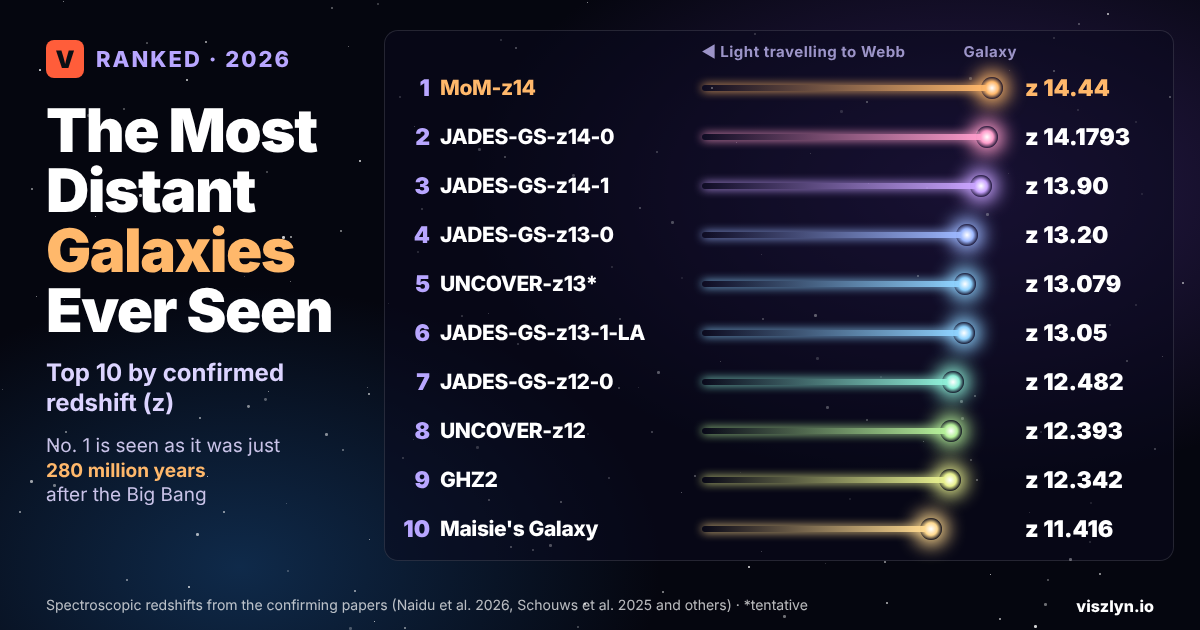
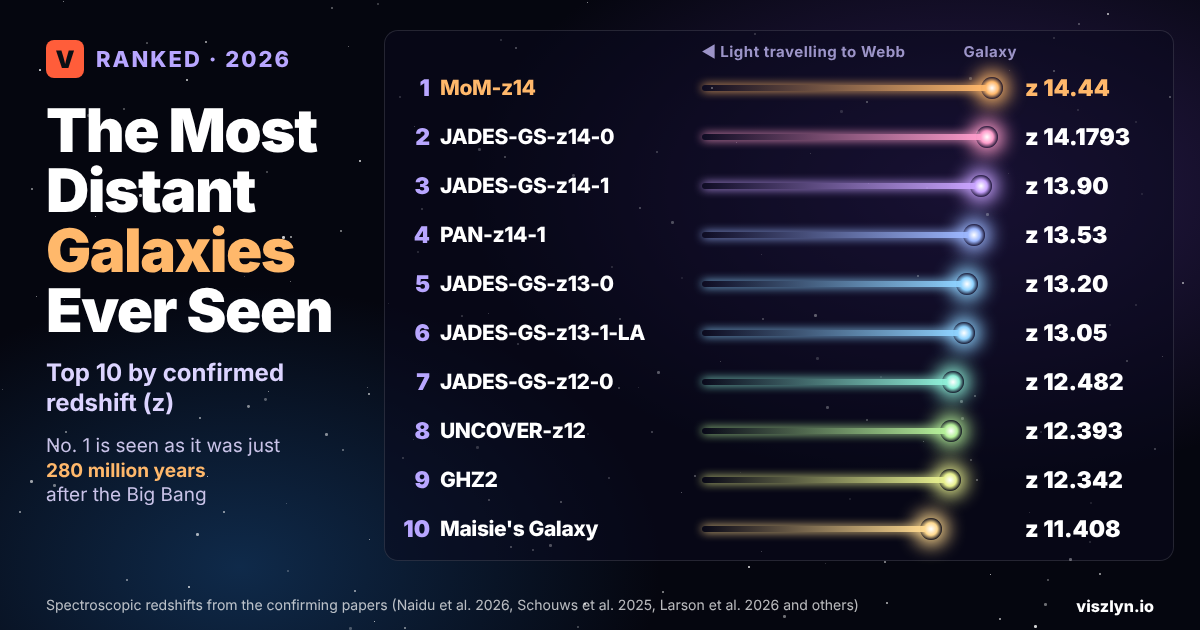
Galaxies: add PAN-z14-1, drop tentative UNCOVER-z13, Maisie's 11.408
Claude-Session: https://claude.ai/code/session_01Lx7Mnbsr2j6Zre36XCS9Kp

diff --git a/src/data/rankings/most-distant-galaxies-ever-observed-2026.ts b/src/data/rankings/most-distant-galaxies-ever-observed-2026.ts
@@ -22,7 +22,7 @@ export const mostDistantGalaxiesEverObserved2026: RankingArticle = {
   heroImage: {
     src: "/heroes/most-distant-galaxies-ever-observed-2026.png",
     ogSrc: "/heroes/most-distant-galaxies-ever-observed-2026-og.png",
-    alt: "Beams of light from the 10 most distant galaxies with confirmed redshifts: MoM-z14 (z 14.44), JADES-GS-z14-0 (14.1793), JADES-GS-z14-1 (13.90), JADES-GS-z13-0 (13.20), UNCOVER-z13 (13.079, tentative), JADES-GS-z13-1-LA (13.05), JADES-GS-z12-0 (12.482), UNCOVER-z12 (12.393), GHZ2 (12.342) and Maisie's Galaxy (11.416).",
+    alt: "Beams of light from the 10 most distant galaxies with confirmed redshifts: MoM-z14 (z 14.44), JADES-GS-z14-0 (14.1793), JADES-GS-z14-1 (13.90), JADES-GS-z13-0 (13.20), PAN-z14-1 (13.53), JADES-GS-z13-1-LA (13.05), JADES-GS-z12-0 (12.482), UNCOVER-z12 (12.393), GHZ2 (12.342) and Maisie's Galaxy (11.408).",
   },
 
   quickAnswer:
@@ -42,27 +42,27 @@ export const mostDistantGalaxiesEverObserved2026: RankingArticle = {
     { rank: 1, name: "MoM-z14", value: "14.44", raw: 14.44 },
     { rank: 2, name: "JADES-GS-z14-0", value: "14.1793", raw: 14.1793 },
     { rank: 3, name: "JADES-GS-z14-1", value: "13.90", raw: 13.9 },
-    { rank: 4, name: "JADES-GS-z13-0", value: "13.20", raw: 13.2 },
-    { rank: 5, name: "UNCOVER-z13 (tentative)", value: "13.079", raw: 13.079 },
+    { rank: 4, name: "PAN-z14-1", value: "13.53", raw: 13.53 },
+    { rank: 5, name: "JADES-GS-z13-0", value: "13.20", raw: 13.2 },
     { rank: 6, name: "JADES-GS-z13-1-LA", value: "13.05", raw: 13.05 },
     { rank: 7, name: "JADES-GS-z12-0", value: "12.482", raw: 12.482 },
     { rank: 8, name: "UNCOVER-z12", value: "12.393", raw: 12.393 },
     { rank: 9, name: "GHZ2 (GLASS-z12)", value: "12.342", raw: 12.342 },
-    { rank: 10, name: "Maisie's Galaxy", value: "11.416", raw: 11.416 },
+    { rank: 10, name: "Maisie's Galaxy", value: "11.408", raw: 11.408 },
   ],
 
   detailedEntries: [
     {
       rank: 10,
       name: "Maisie's Galaxy",
-      earnings: "z = 11.416 ± 0.005",
+      earnings: "z = 11.408 ± 0.005",
       category: "CEERS · EGS field",
       origin: "JWST NIRSpec",
       blurb:
-        "Maisie's Galaxy (catalogued as CEERS 16943) was confirmed by Arrabal Haro et al. (2023) in the CEERS survey's EGS field. The confirming paper dates its light to 392 million years after the Big Bang; the University of Texas at Austin release says 390 million years.",
+        "Maisie's Galaxy (catalogued as CEERS 16943) was confirmed by Arrabal Haro et al. (2023) in the CEERS survey's EGS field at a redshift of 11.416 ± 0.005. A deep spectroscopic follow-up by Larson et al. (2026) measured 11.408 ± 0.005, the value it is ranked by here. The confirming paper dates its light to 392 million years after the Big Bang; the University of Texas at Austin release says 390 million years.",
       standoutFact:
-        "It was publicised in the summer of 2022 as a galaxy at a redshift of about 14; spectroscopy put it at 11.416. A deep follow-up in 2026 measured 11.408 ± 0.005, consistent with the confirming value.",
-      sourceTag: "Arrabal Haro et al. 2023, Nature 621, 707–711",
+        "It was publicised in the summer of 2022 as a galaxy at a redshift of about 14; spectroscopy put it at 11.416 in 2023, refined to 11.408 in 2026.",
+      sourceTag: "Larson et al. 2026 (arXiv:2607.08749); Arrabal Haro et al. 2023, Nature 621, 707–711",
       image: {
         src: "/rankings/most-distant-galaxies-ever-observed-2026/maisies-galaxy.webp",
         width: 1200,
@@ -106,7 +106,7 @@ export const mostDistantGalaxiesEverObserved2026: RankingArticle = {
       blurb:
         "UNCOVER-z12 is the robust detection of the pair reported by Wang et al. (2023) in the UNCOVER survey of Abell 2744 (Pandora's Cluster). The UNCOVER release dates the pair's light to when the universe was about 330 million years old, a light travel time of about 13.4 billion years.",
       standoutFact:
-        "Its companion in the same paper, UNCOVER-z13, ranks one place higher but is flagged tentative; z12 is the detection its own authors call robust.",
+        "Its companion in the same paper, UNCOVER-z13 (13.079), is not ranked here because the authors call it tentative; z12 is the detection they call robust.",
       sourceTag: "Wang et al. 2023, ApJ Letters 957, L34",
       image: {
         src: "/rankings/most-distant-galaxies-ever-observed-2026/uncover-z12.webp",
@@ -150,7 +150,7 @@ export const mostDistantGalaxiesEverObserved2026: RankingArticle = {
       blurb:
         "JADES-GS-z13-1-LA's redshift comes from a single feature measured precisely: the Lyman-alpha emission line at 1.7084 µm, detected by Witstok et al. (2025) with NIRSpec's prism. ESA/Webb and NASA date it to 330 million years after the Big Bang.",
       standoutFact:
-        "The paper's abstract rounds the redshift to 13.0; the ranked value, 13.05 ± 0.01, is the published line measurement, which NASA's caption also uses.",
+        "The paper's abstract rounds the redshift to 13.0; the ranked value, 13.05 ± 0.01, is the published line measurement, which NASA's caption also uses. This is the Lyman-alpha redshift; the authors caution that the galaxy's systemic redshift is probably slightly lower, because resonant scattering shifts the line.",
       sourceTag: "Witstok et al. 2025, Nature 639, 897–901",
       image: {
         src: "/rankings/most-distant-galaxies-ever-observed-2026/jades-gs-z13-1-la.webp",
@@ -165,28 +165,6 @@ export const mostDistantGalaxiesEverObserved2026: RankingArticle = {
     },
     {
       rank: 5,
-      name: "UNCOVER-z13 (tentative)",
-      earnings: "z = 13.079 (+0.013/−0.001)",
-      category: "UNCOVER · Abell 2744",
-      origin: "JWST NIRSpec",
-      blurb:
-        "Tentative: Wang et al. (2023) report UNCOVER-z13 at this redshift, but in the same paper they describe it as a plausible candidate, tentatively detected at lower signal-to-noise, and say they refrain from a highly confident interpretation above redshift 13. It is ranked at its published value with this flag. The UNCOVER release dates the z13/z12 pair's light to when the universe was about 330 million years old.",
-      standoutFact:
-        "It is the only entry in this top 10 whose own confirming paper attaches a caution to the measurement.",
-      sourceTag: "Wang et al. 2023, ApJ Letters 957, L34 (tentative in the paper)",
-      image: {
-        src: "/rankings/most-distant-galaxies-ever-observed-2026/uncover-z13.webp",
-        width: 1200,
-        height: 912,
-        alt: "Abell 2744, Pandora's Cluster, imaged by Webb's NIRCam",
-        author: "NASA, ESA, CSA, Ivo Labbe (Swinburne), Rachel Bezanson (University of Pittsburgh); Image Processing: Alyssa Pagan (STScI)",
-        license: "Public domain",
-        sourceUrl: "https://science.nasa.gov/asset/webb/pandoras-cluster-nircam-image/",
-        caption: "Abell 2744 (Pandora's Cluster), the UNCOVER survey field in which UNCOVER-z13 was found (field image).",
-      },
-    },
-    {
-      rank: 4,
       name: "JADES-GS-z13-0",
       earnings: "z = 13.20 (+0.04/−0.07)",
       category: "JADES · GOODS-S",
@@ -207,6 +185,18 @@ export const mostDistantGalaxiesEverObserved2026: RankingArticle = {
         sourceUrl: "https://esawebb.org/images/weic2317b/",
         caption: "The GOODS-S survey field imaged for the JADES programme, where JADES-GS-z13-0 was found (field image, not a portrait of this galaxy).",
       },
+    },
+    {
+      rank: 4,
+      name: "PAN-z14-1",
+      earnings: "z = 13.53 (+0.05/−0.06)",
+      category: "Pure-parallel NIRCam imaging",
+      origin: "JWST NIRSpec PRISM",
+      blurb:
+        "PAN-z14-1 was picked out of Webb's pure-parallel NIRCam imaging and confirmed by Donnan et al. (2026) with NIRSpec prism spectra, from modelling of its Lyman-alpha break.",
+      standoutFact:
+        "Its confirming paper describes it as a large and luminous galaxy with weak emission lines, and as the fourth most distant galaxy known when it was confirmed in January 2026.",
+      sourceTag: "Donnan et al. 2026, arXiv:2601.11515",
     },
     {
       rank: 3,
@@ -288,18 +278,20 @@ export const mostDistantGalaxiesEverObserved2026: RankingArticle = {
     dataPeriod: "Spectroscopic confirmations published through November 2026",
     lastUpdated: "November 19, 2026",
     sources:
-      "Naidu et al. 2026 (MoM-z14); Schouws et al. 2025 and Carniani et al. 2024 (JADES-GS-z14-0 and JADES-GS-z14-1); Curtis-Lake et al. 2023 and Hainline et al. 2024 (JADES-GS-z13-0); Wang et al. 2023 (UNCOVER-z13 and UNCOVER-z12); Witstok et al. 2025 (JADES-GS-z13-1-LA); D'Eugenio et al. 2024 (JADES-GS-z12-0); Castellano et al. 2024, with Zavala et al. 2024 and 2025 (GHZ2); Arrabal Haro et al. 2023 (Maisie's Galaxy); Planck Collaboration 2020 (age of the universe); Gott et al. 2005 (radius of the observable universe).",
+      "Naidu et al. 2026 (MoM-z14); Schouws et al. 2025 and Carniani et al. 2024 (JADES-GS-z14-0 and JADES-GS-z14-1); Curtis-Lake et al. 2023 and Hainline et al. 2024 (JADES-GS-z13-0); Donnan et al. 2026 (PAN-z14-1); Wang et al. 2023 (UNCOVER-z12); Witstok et al. 2025 (JADES-GS-z13-1-LA); D'Eugenio et al. 2024 (JADES-GS-z12-0); Castellano et al. 2024, with Zavala et al. 2024 and 2025 (GHZ2); Arrabal Haro et al. 2023 and Larson et al. 2026 (Maisie's Galaxy); Planck Collaboration 2020 (age of the universe); Gott et al. 2005 (radius of the observable universe).",
     methodology:
-      "Only spectroscopically confirmed redshifts are ranked: distances estimated from images alone (photometric redshifts) are excluded, because they have produced false records, most famously CEERS-93316, announced at about 16.45 and later shown by spectroscopy to be a dusty galaxy at 4.912. Galaxies are ranked by their current best published spectroscopic value; where a later paper revised a redshift (JADES-GS-z14-0: 14.32, then 14.1793; JADES-GS-z12-0: 12.63, then 12.482), the revised value is used and the original is noted in the entry. UNCOVER-z13 is included at its published value of 13.079 but flagged tentative, because its own paper calls it a plausible candidate rather than a robust detection. GHZ2 and GLASS-z12 are the same galaxy and are counted once. Ages after the Big Bang are quoted only where the confirming paper or its institution states one, in that source's cosmology; none were calculated for this ranking, and no age is printed for JADES-GS-z13-0 because its paper states none for the galaxy individually. Image credits are as given by NASA, STScI, ESA/Webb, ALMA and the CEERS team; three JADES entries and the two UNCOVER entries use official images of their survey fields, as their captions state.",
+      "Only spectroscopically confirmed redshifts are ranked: distances estimated from images alone (photometric redshifts) are excluded, because they have produced false records, most famously CEERS-93316, announced at about 16.45 and later shown by spectroscopy to be a dusty galaxy at 4.912. Galaxies are ranked by their current best published spectroscopic value; where a later paper revised a redshift (JADES-GS-z14-0: 14.32, then 14.1793; JADES-GS-z12-0: 12.63, then 12.482; Maisie's Galaxy: 11.416, then 11.408), the revised value is used and the original is noted in the entry. A spectroscopic redshift is not always the galaxy's systemic redshift: the 13.05 for JADES-GS-z13-1-LA comes from its Lyman-alpha emission line, and its authors note the systemic redshift is probably slightly lower. UNCOVER-z13, reported at 13.079, is excluded because its discovery paper describes it as a plausible candidate and a tentative detection rather than a robust confirmation. GHZ2 and GLASS-z12 are the same galaxy and are counted once. Ages after the Big Bang are quoted only where the confirming paper or its institution states one, in that source's cosmology; none were calculated for this ranking, and no age is printed for JADES-GS-z13-0 because its paper states none for the galaxy individually. Image credits are as given by NASA, STScI, ESA/Webb, ALMA and the CEERS team; three JADES entries and UNCOVER-z12 use official images of their survey fields, as their captions state; no free-licence image of PAN-z14-1 was available.",
     sourceLinks: [
       { label: "Naidu et al. 2026: MoM-z14 (arXiv:2505.11263)", href: "https://arxiv.org/abs/2505.11263" },
       { label: "Schouws et al. 2025: ALMA redshift of JADES-GS-z14-0 (arXiv:2409.20549)", href: "https://arxiv.org/abs/2409.20549" },
       { label: "Carniani et al. 2024: JADES-GS-z14-0 and z14-1 (arXiv:2405.18485)", href: "https://arxiv.org/abs/2405.18485" },
       { label: "Curtis-Lake et al. 2023: JADES-GS-z13-0 (arXiv:2212.04568)", href: "https://arxiv.org/abs/2212.04568" },
-      { label: "Wang et al. 2023: UNCOVER-z13 and z12", href: "https://doi.org/10.3847/2041-8213/acfe07" },
+      { label: "Donnan et al. 2026: PAN-z14-1 (arXiv:2601.11515)", href: "https://arxiv.org/abs/2601.11515" },
+      { label: "Wang et al. 2023: UNCOVER-z12 (and tentative UNCOVER-z13)", href: "https://doi.org/10.3847/2041-8213/acfe07" },
       { label: "Witstok et al. 2025: JADES-GS-z13-1-LA (arXiv:2408.16608)", href: "https://arxiv.org/abs/2408.16608" },
       { label: "D'Eugenio et al. 2024: JADES-GS-z12-0 (arXiv:2311.09908)", href: "https://arxiv.org/abs/2311.09908" },
       { label: "Arrabal Haro et al. 2023: Maisie's Galaxy (arXiv:2303.15431)", href: "https://arxiv.org/abs/2303.15431" },
+      { label: "Larson et al. 2026: deep follow-up of Maisie's Galaxy (arXiv:2607.08749)", href: "https://arxiv.org/abs/2607.08749" },
       { label: "NASA: Webb pushes boundaries of the observable universe (MoM-z14 image)", href: "https://science.nasa.gov/asset/webb/cosmos-field-mom-z14-galaxy-nircam-image/" },
     ],
   },
@@ -326,9 +318,9 @@ export const mostDistantGalaxiesEverObserved2026: RankingArticle = {
         "Those are photometric candidates: their distances were estimated from images, not measured from spectra. The most famous case, CEERS-93316, was announced at about 16.45 and turned out to be a dusty galaxy at 4.912. This ranking counts only spectroscopic confirmations, which is why nothing above 14.44 appears.",
     },
     {
-      question: "Is UNCOVER-z13 really the fifth most distant galaxy?",
+      question: "Why isn't UNCOVER-z13 on the list?",
       answer:
-        "It is ranked fifth at its published redshift of 13.079, but with a flag: Wang et al. (2023), the paper that reported it, call it a plausible candidate and a tentative detection, and refrain from a highly confident interpretation above redshift 13. Its companion in the same paper, UNCOVER-z12, is the detection the authors call robust.",
+        "UNCOVER-z13 has a reported spectroscopic redshift of 13.079, which would place it sixth. But Wang et al. (2023), the paper that reported it, call it a plausible candidate and a tentative detection, and refrain from a highly confident interpretation above redshift 13. This ranking counts only robust confirmations, so it is left out; its companion in the same paper, UNCOVER-z12, is ranked eighth.",
     },
   ],
 
